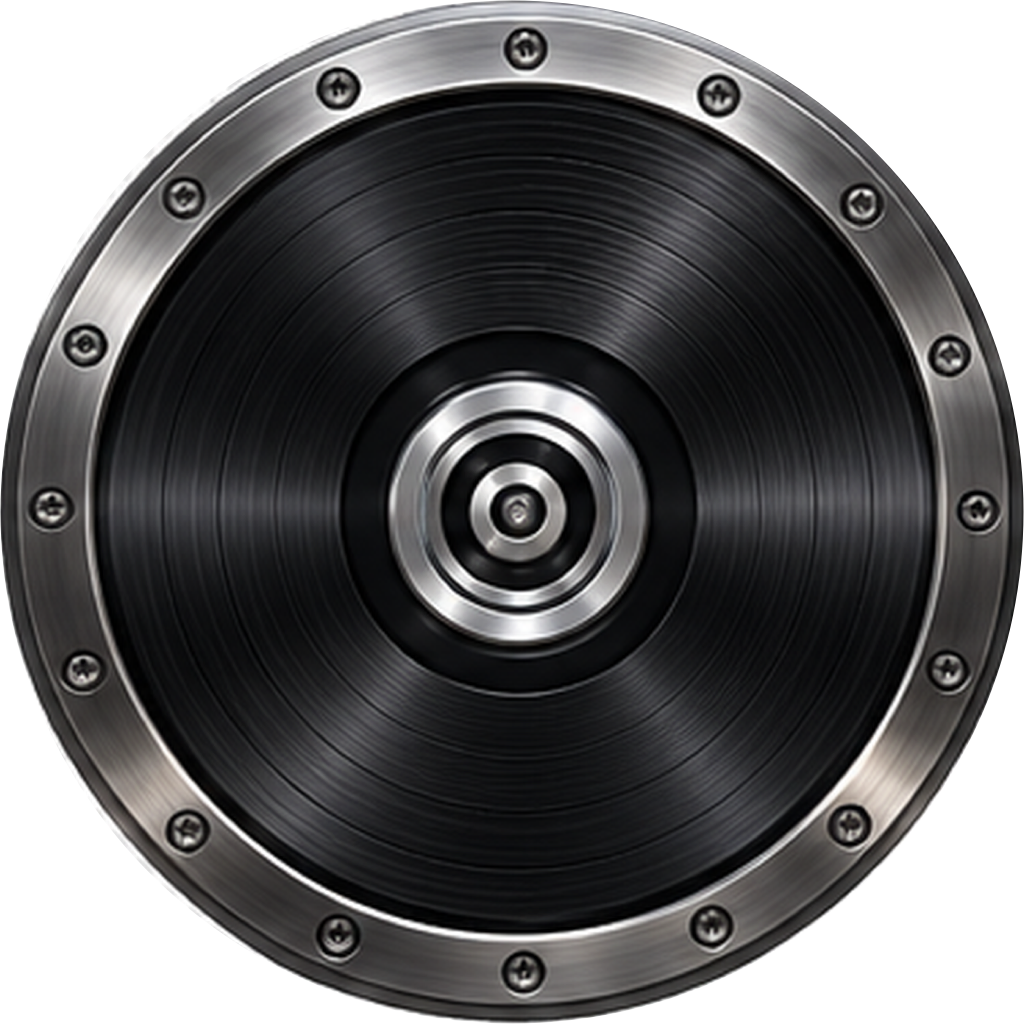
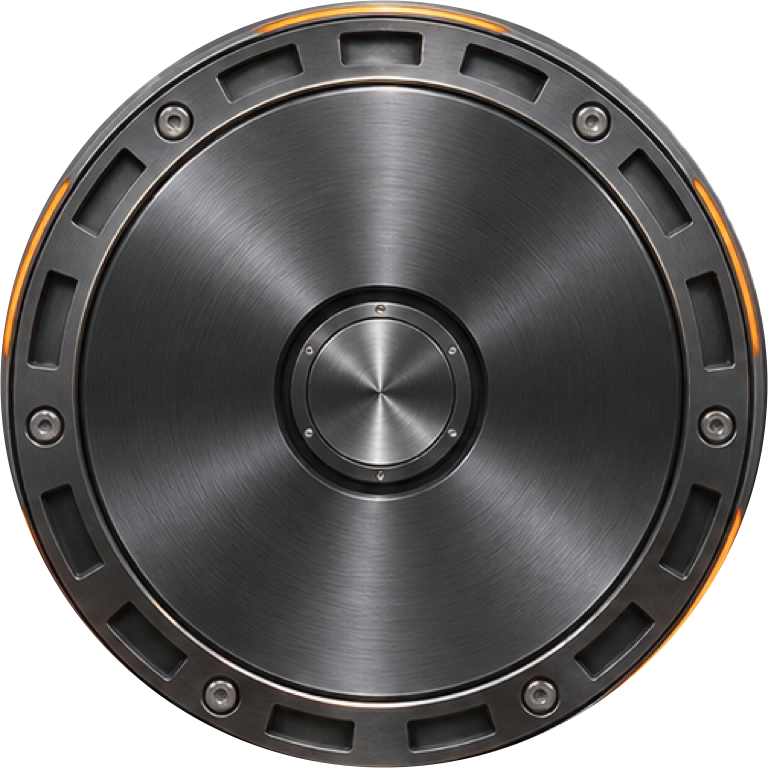
Skin: nuovi piatti e manopole Industrial e Retro dalla tavola degli asset; piatto motorizzato (anello esterno, viti e mozzo girano alla velocita' reale, il disco spazzolato tiene i riflessi fermi)

diff --git a/ui/app.js b/ui/app.js
@@ -1027,7 +1027,7 @@ function skinImg(name) {
 function drawSkinPlatter(g, d, s, R, cx, cy, dpr, ang, loaded, amp, cueOn, scr) {
   const TAU = Math.PI * 2, playing = !!s?.playing, ind = SKIN.id === "industrial";
   const img = skinImg(ind ? "ind_jog" : "retro_jog");
-  const ir = R * (ind ? 0.95 : 0.97), inner = ir * (ind ? 0.8 : 0.79);   // raggio dell'immagine e del disco (dentro il bordo)
+  const ir = R * (ind ? 0.95 : 0.97), hubR = ir * (ind ? 0.27 : 0.2), inner = ir * (ind ? 0.8 : 0.86);   // immagine, mozzo che gira, piatto dentro il bordo
   const col = cueOn ? "#ffb300" : TH.bright, hi = cueOn ? "#ffe2a0" : TH.hi;
   // ombra sotto il piatto
   g.save(); g.shadowColor = "rgba(0,0,0,.7)"; g.shadowBlur = 18 * dpr; g.shadowOffsetY = 6 * dpr;
@@ -1045,17 +1045,25 @@ function drawSkinPlatter(g, d, s, R, cx, cy, dpr, ang, loaded, amp, cueOn, scr) 
     g.beginPath(); g.arc(cx, cy, R * 0.975, 0, TAU); g.stroke(); g.restore();
   }
   if (!img) { g.fillStyle = "#111"; g.beginPath(); g.arc(cx, cy, ir, 0, TAU); g.fill(); return; }
-  // bordo fermo (immagine intera), poi il disco ritagliato che gira
+  // piatto motorizzato (come un CDJ con piatto a motore): girano alla velocita' reale l'anello esterno con le feritoie e le viti, il mozzo
+  // e il segno di rotazione; il disco in metallo spazzolato al centro tiene i riflessi fermi, come sotto una luce vera
   g.drawImage(img, cx - ir, cy - ir, ir * 2, ir * 2);
-  g.save(); g.beginPath(); g.arc(cx, cy, inner, 0, TAU); g.clip();
-  g.translate(cx, cy); g.rotate(ang); g.drawImage(img, -ir, -ir, ir * 2, ir * 2); g.restore();
+  const spin = (clipFn) => { g.save(); g.beginPath(); clipFn(); g.clip(); g.translate(cx, cy); g.rotate(ang); g.drawImage(img, -ir, -ir, ir * 2, ir * 2); g.restore(); };
+  spin(() => { g.arc(cx, cy, ir, 0, TAU); g.arc(cx, cy, inner, 0, TAU, true); });
+  spin(() => g.arc(cx, cy, hubR, 0, TAU));
+  // riflesso fisso sull'anello: la luce non gira con il piatto
+  if (g.createConicGradient) {
+    const rf = g.createConicGradient(-0.9, cx, cy);
+    [[0, 0], [0.06, .16], [0.13, 0], [0.5, 0], [0.56, .12], [0.63, 0], [1, 0]].forEach(([p, a]) => rf.addColorStop(p, `rgba(255,255,255,${a})`));
+    g.save(); g.fillStyle = rf; g.beginPath(); g.arc(cx, cy, ir, 0, TAU); g.arc(cx, cy, inner, 0, TAU, true); g.fill(); g.restore();
+  }
   // segno di rotazione sul disco (come il punto bianco dei piatti veri)
   g.save(); g.translate(cx, cy); g.rotate(ang);
-  g.fillStyle = ind ? hi : "rgba(255,255,255,.75)"; g.globalAlpha = loaded ? 0.9 : 0.4;
-  g.fillRect(-1.2 * dpr, -inner * 0.97, 2.4 * dpr, inner * 0.09); g.restore();
+  g.fillStyle = ind ? hi : "rgba(25,25,25,.75)"; g.globalAlpha = loaded ? 0.9 : 0.4;
+  g.fillRect(-1.5 * dpr, -inner * 0.96, 3 * dpr, inner * 0.12); g.restore();
   if (!ind) {
     // RETRO: anello rosso attorno al cappuccio centrale, acceso in play e sotto CUE
-    const cr = ir * 0.285;
+    const cr = hubR * 1.02;
     g.save(); g.globalAlpha = !loaded ? 0.35 : playing || cueOn ? 1 : 0.6;
     g.shadowColor = col; g.shadowBlur = (playing || cueOn ? 14 : 4) * dpr; g.strokeStyle = col; g.lineWidth = 3 * dpr;
     g.beginPath(); g.arc(cx, cy, cr, 0, TAU); g.stroke(); g.restore();
